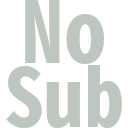
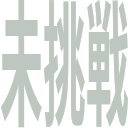
:art: Update submission status labels (#569)

diff --git a/src/lib/services/submission_status.ts b/src/lib/services/submission_status.ts
@@ -26,7 +26,7 @@ export const submission_statuses = [
   {
     id: '3',
     status_name: 'wa',
-    label_name: 'WA',
+    label_name: '挑戦中',
     image_path: 'wa.png',
     is_AC: false,
     text_color: 'text-white', // TODO: Add column and value to schema.
@@ -36,7 +36,7 @@ export const submission_statuses = [
   {
     id: '4',
     status_name: 'ns',
-    label_name: 'No Sub',
+    label_name: '未挑戦',
     image_path: 'ns.png',
     is_AC: false,
     text_color: 'text-black', // TODO: Add column and value to schema.

diff --git a/src/lib/services/task_results.ts b/src/lib/services/task_results.ts
@@ -88,7 +88,7 @@ export function createDefaultTaskResult(userId: string, task: Task): TaskResult 
     grade: task.grade,
     user_id: userId,
     task_table_index: task.task_table_index,
-    status_id: '1',
+    status_id: '4',
     status_name: 'ns', // FIXME: Use const
     submission_status_image_path: 'ns.png',
     is_ac: false,
